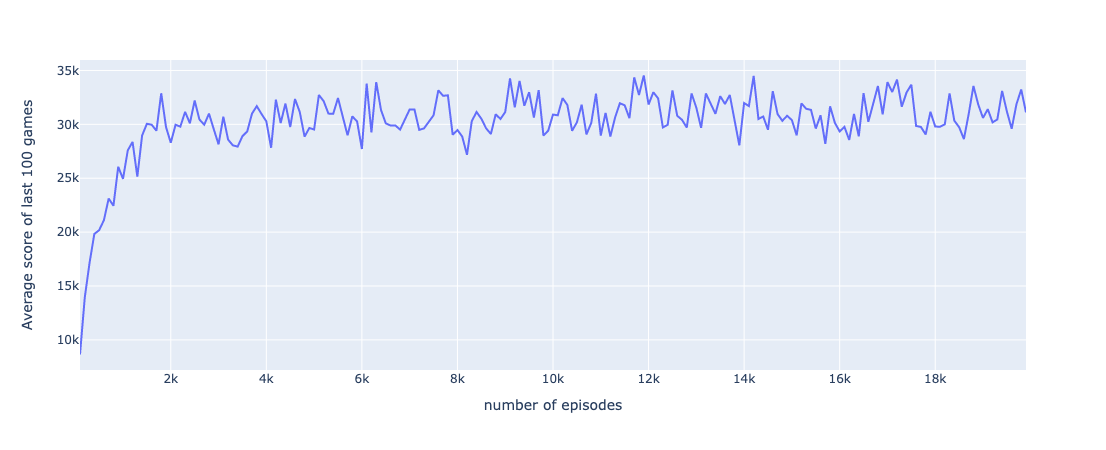
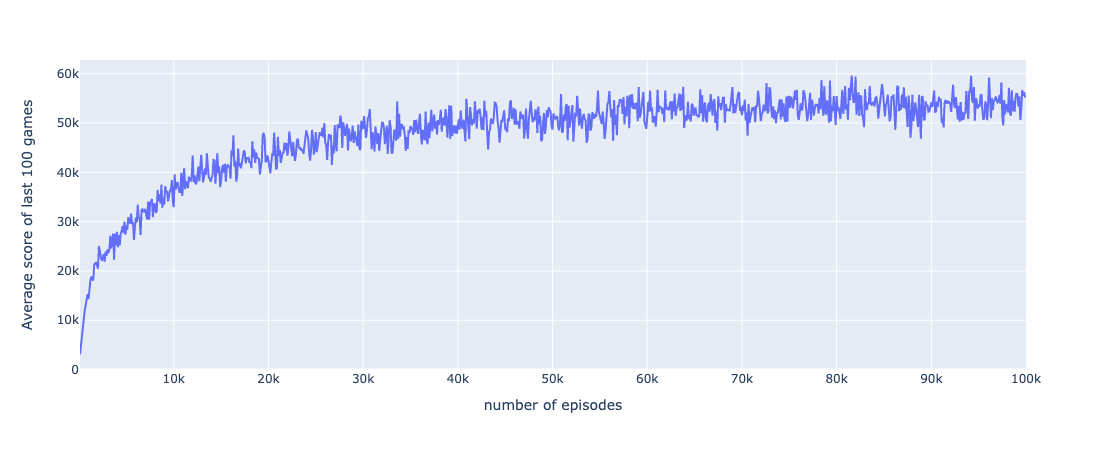
Test (#7)
* *

* *

* *

diff --git a/assets/bootstrap.css b/assets/bootstrap.css
@@ -86,6 +86,7 @@ body {
   line-height: var(--bs-body-line-height);
   color: var(--bs-body-color);
   text-align: var(--bs-body-text-align);
+  background-image: url("../assets/rotko.jpeg");
   background-color: var(--bs-body-bg);
   -webkit-text-size-adjust: 100%;
   -webkit-tap-highlight-color: rgba(0, 0, 0, 0);

diff --git a/application.py b/application.py
@@ -70,7 +70,7 @@ app.layout = dbc.Container([
     dbc.Row([
         dbc.Col(dbc.Card([
             html.H6('Choose:', id='mode_text', className='mode-text'),
-            dbc.DropdownMenu(id='choose_option', label='MODE ?', color='success', className='mode-choose',
+            dbc.DropdownMenu(id='mode_menu', label='MODE ?', color='success', className='mode-choose', disabled=True,
                              children=[dbc.DropdownMenuItem(mode_list[v][0], id=v, n_clicks=0) for v in mode_list]),
             dbc.Button(id='chart_button', className='chart-button', style={'display': 'none'}),
             dbc.InputGroup([
@@ -774,7 +774,7 @@ def restart_play(n, chain):
 # Log window callbacks
 @app.callback(
     Output('log_file', 'data'), Output('session_tags', 'data'), Output('initiate_logs', 'disabled'),
-    Output('description_button', 'n_clicks'),
+    Output('description_button', 'n_clicks'), Output('mode_menu', 'disabled'),
     Input('initiate_logs', 'n_intervals')
 )
 def assign_log_file(n):
@@ -784,7 +784,7 @@ def assign_log_file(n):
         tags = {'parent': parent, 'logs': log_file, 'proc': 0, 'agent': 0}
         add_status('logs', log_file, tags['parent'])
         Process(target=vacuum_cleaner, args=(parent,), daemon=True).start()
-        return log_file, tags, True, 1
+        return log_file, tags, True, 1, False
     else:
         raise PreventUpdate
 
@@ -877,6 +877,6 @@ app.clientside_callback(
 if __name__ == '__main__':
 
     # make_empty_status(); sys.exit()
-    # app.run_server(host='0.0.0.0', port=int(os.environ.get("PORT", 5000)), debug=(LOCAL == 'local'), use_reloader=False)
-    application.run(host='0.0.0.0', port=int(os.environ.get("PORT", 5000)), debug=(LOCAL == 'local'), use_reloader=False)
+    app.run_server(host='0.0.0.0', port=int(os.environ.get("PORT", 5000)), debug=(LOCAL == 'local'), use_reloader=False)
+    # application.run(host='0.0.0.0', port=int(os.environ.get("PORT", 5000)), debug=(LOCAL == 'local'), use_reloader=False)
 

diff --git a/game2048/game_logic.py b/game2048/game_logic.py
@@ -234,7 +234,7 @@ class Game:
         num_tiles = min(width, empty)
         empty_cells = self.empty(row)
         tile_positions = random.sample(empty_cells, num_tiles)
-        worst = np.inf
+        # worst = np.inf
         average = 0
         for position in tile_positions:
             new_tile = 1 if random.randrange(10) else 2
@@ -242,7 +242,7 @@ class Game:
             new_row[position] = new_tile
             if self.game_over(new_row):
                 # best_value = estimator(row, score)
-                best_value = 0
+                best_value = -100
             else:
                 best_value = - np.inf
                 for direction in range(4):
@@ -251,7 +251,7 @@ class Game:
                         value = self.look_forward(estimator, test_row, test_score,
                                                   depth=depth - 1, width=width, ample=ample)
                         best_value = max(best_value, value)
-            worst = min(worst, best_value)
+            # worst = min(worst, best_value)
             average += max(best_value, 0)
         average = average / num_tiles
         return average

diff --git a/game2048/r_learning.py b/game2048/r_learning.py
@@ -229,7 +229,7 @@ class Q_agent:
             if i < self.top_tile - 1:
                 self.lr[i] = max(self.lr[i] * self.decay, self.low_alpha_limit)
         self.lr_from_f = {i: self.lr[self.max_in_f[i]] for i in range(self.size_feat)}
-        self.alpha = round(max(self.alpha * self.decay, self.low_alpha_limit), 3)
+        self.alpha = round(max(self.alpha * self.decay, self.low_alpha_limit), 4)
         self.next_decay = self.step + self.decay_step
         self.print('------')
         self._display_lr()
@@ -243,7 +243,7 @@ class Q_agent:
     def train_run(self, num_eps=100000, saving=True):
         av1000, ma100 = [], deque(maxlen=100)
         reached = [0] * 7
-        save_steps = 250 if self.n == 5 else (250 if self.n == 4 else 100)
+        save_steps = 250
         global_start = start = time.time()
         self.print(f'Agent {self.name} training session started, current step = {self.step}')
         self.print(f'Agent will be saved every {save_steps} episodes')

diff --git a/game2048/dash_utils.py b/game2048/dash_utils.py
@@ -34,7 +34,7 @@ params_dict = {
     'reward': {'element': 'select', 'value': 'basic', 'options': ['basic', 'log'], 'disable': True},
     'decay_model': {'element': 'select', 'value': 'simple', 'options': ['simple', 'scaled'], 'disable': True},
     'n': {'element': 'select', 'value': 4, 'options': [2, 3, 4, 5], 'disable': True},
-    'alpha': {'element': 'input', 'type': 'number', 'value': 0.25, 'step': 0.001, 'disable': False},
+    'alpha': {'element': 'input', 'type': 'number', 'value': 0.25, 'step': 0.0001, 'disable': False},
     'decay': {'element': 'input', 'type': 'number', 'value': 0.75, 'step': 0.01, 'disable': False},
     'decay_step': {'element': 'input', 'type': 'number', 'value': 10000, 'step': 1000, 'disable': False},
     'low_alpha_limit': {'element': 'input', 'type': 'number', 'value': 0.01, 'step': 0.0025, 'disable': False},

diff --git a/game2048/start.py b/game2048/start.py
@@ -47,7 +47,7 @@ else:
 
 
 def time_suffix():
-    return ''.join([v for v in str(datetime.now()) if v.isnumeric()])[4:]
+    return ''.join([v for v in str(datetime.utcnow()) if v.isnumeric()])[4:]
 
 
 def next_time():

diff --git a/assets/user_guide.md b/assets/user_guide.md
@@ -4,7 +4,7 @@
 * ###### Train Agent
     We can train new Agent, or keep training existing one. The most important parameter is N, it determines which feature function is employed. With higher N - more weights and better results.
 * ###### Collect Agent Statistics
-    Collect statistics for an existing Agent. The Agent is choosing next move by trying to make a move in all directions and taking the one with the highest internal evaluation. We can try to improve performance by looking `depth` moves ahead and trying `width` random tiles at each after-move stage. And start doing this when number of empty cells goes below `since_empty`. Needless to say, this slows down the agent significantly. Curiously, the results do improve, but not dramatically.
+    Collect statistics for an existing Agent. The Agent is choosing next move by trying to make a move in all directions and taking the one with the highest internal evaluation. We can try to improve performance by looking `depth` moves ahead and trying `width` random tiles at each after-move stage. And start doing this when number of empty cells goes below `since_empty`. Needless to say, this slows down the agent significantly.
 * ###### Watch Agent Play
     All the same parameters as above, but now we can watch the Agent play one game in real time. Actually, it plays very fast, ~3-4 seconds for a full game reaching 4096. But Dash and your Browser can't render it so fast, besides it won't be fun. So maximum speed is limited.
 * ###### Replay Game

diff --git a/assets/project_3.md b/assets/project_3.md
@@ -1,14 +1,14 @@
 * Model with some combinations of 4 adjacent tiles + several 5-tiles, trained over 100,000 episodes.
 / I wrote in the comments in `rl_learning.py` how i tried all 4-combinations at the start but it didn't work. /
 ```
-average over last 1000 episodes = 44422.796
-1024 reached in 94.4 %
-2048 reached in 83.4 %
-4096 reached in 45.9 %
-8192 reached in 0.4 %
-best score = 130664
-2				4				256				4
-4				16				2048				8192
-8				32				256				1024
-2				16				128				32
+average over last 1000 episodes = 54718.676
+1024 reached in 96.3 %
+2048 reached in 90.4 %
+4096 reached in 63.9 %
+8192 reached in 1.0 %
+best score so far = 168276
+2				16				2				4				
+64				8				16				2				
+16				256				512				128				
+4096			8192			2048			4				
 ```
